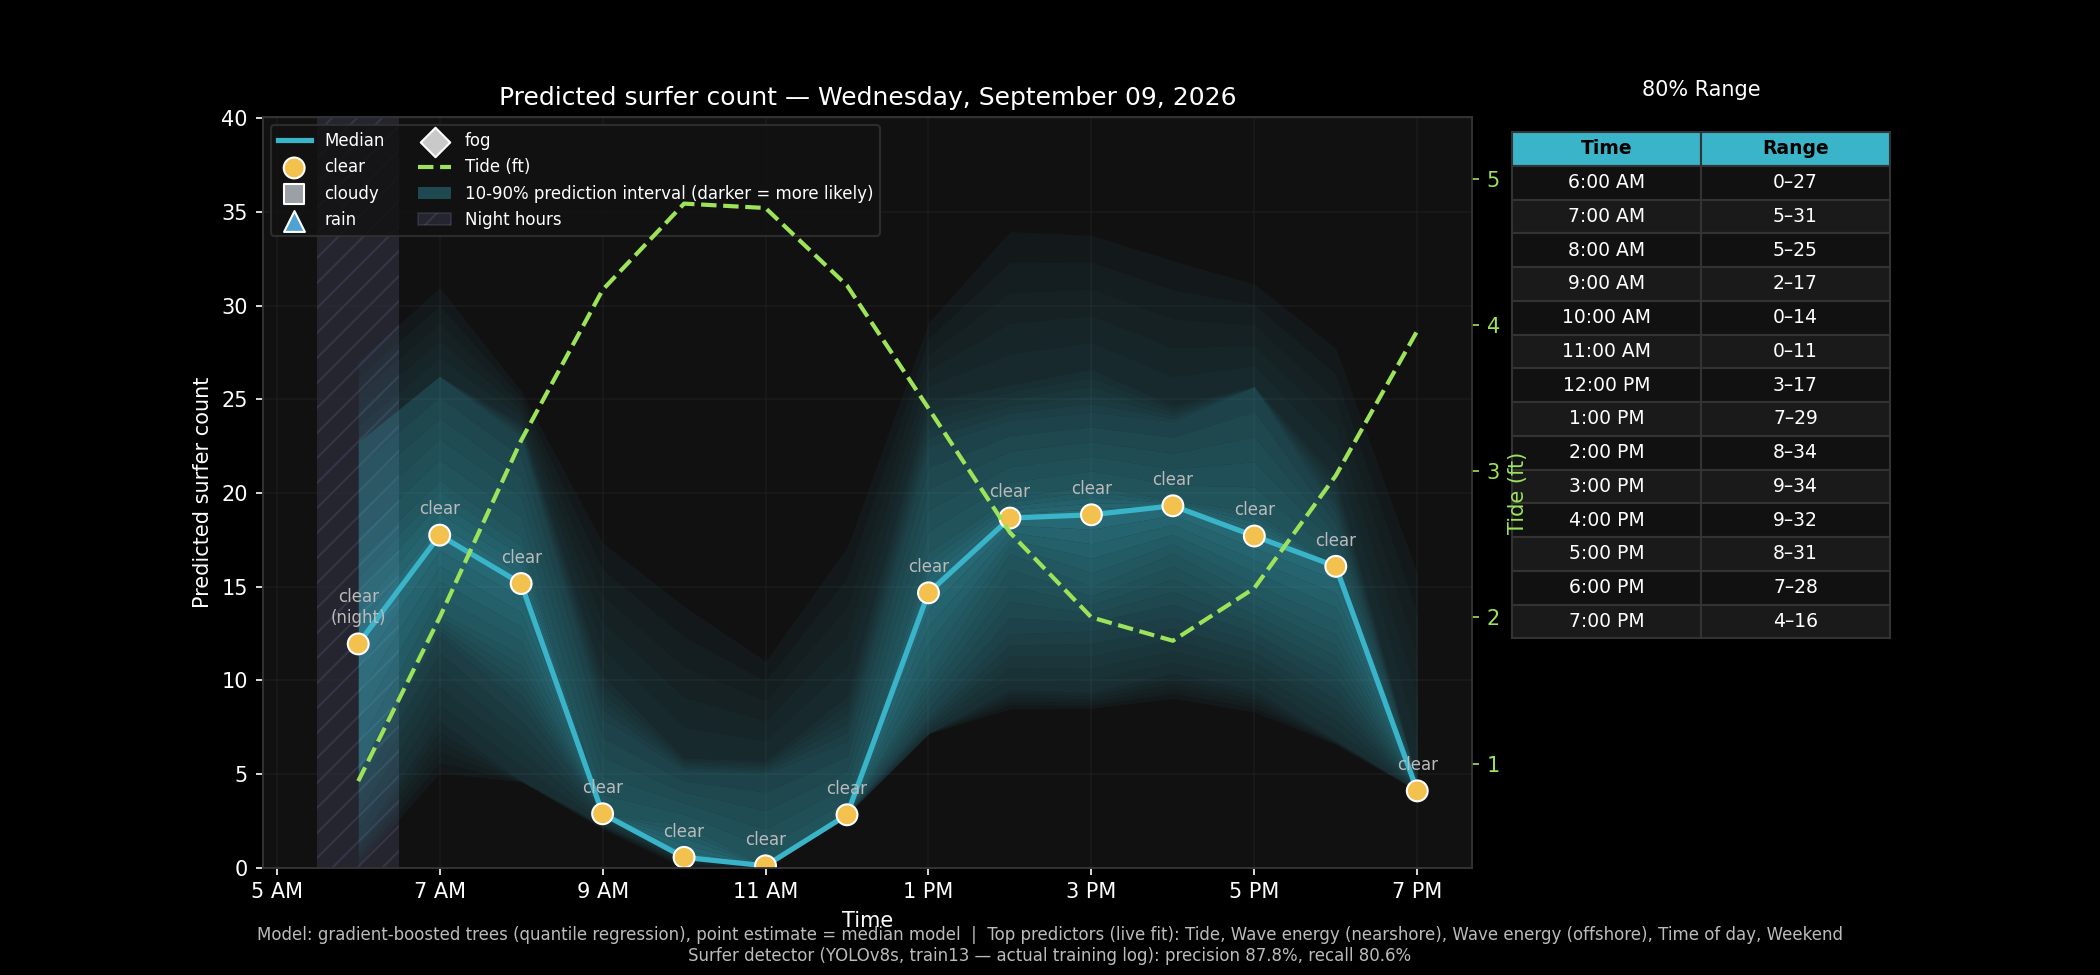
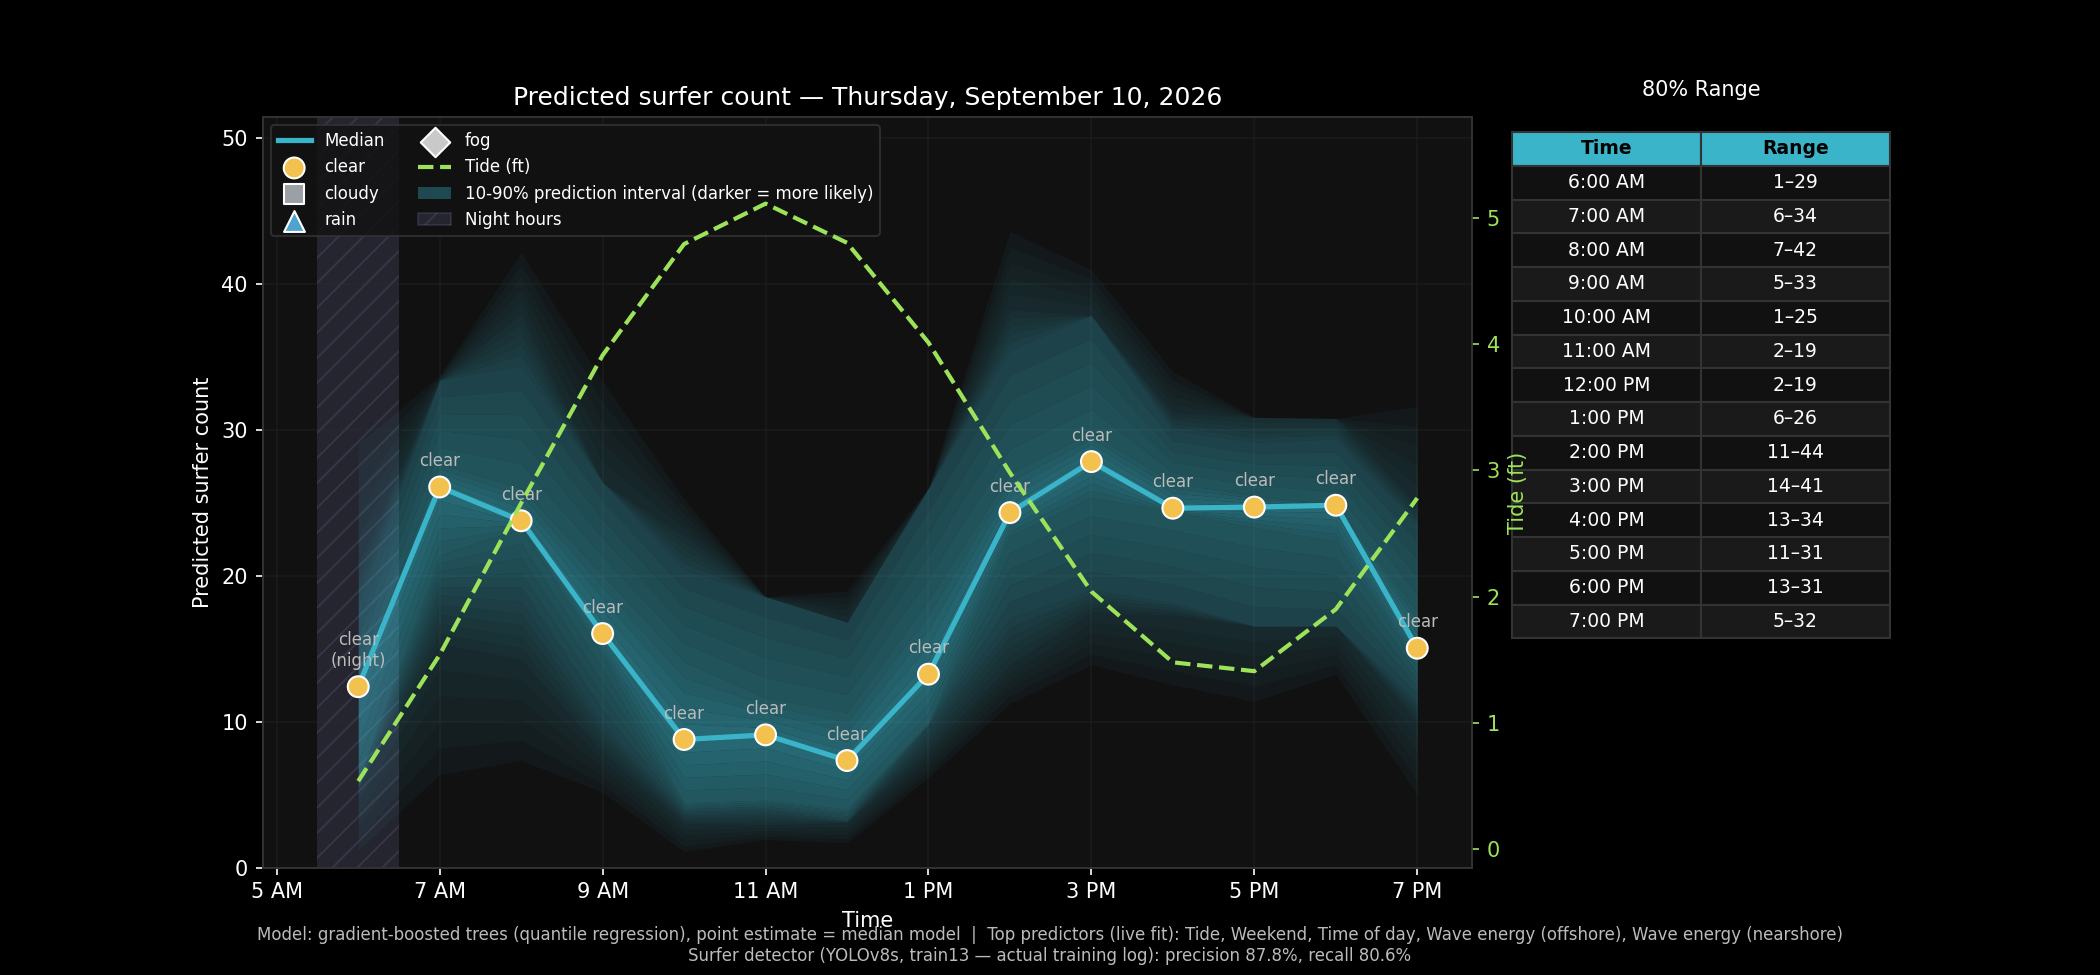
Automated: update daily surfer count chart (2026-09-09)

diff --git a/README.md b/README.md
@@ -76,12 +76,12 @@ tuned over time, and [PROJECT_FILES.md](docs/PROJECT_FILES.md) for a map
 of what every file in this repo does.
 
 <!-- DAILY_CHART_START -->
-#### A Recent Surfer Detection Count: Tuesday, September 08, 2026, 8:05 AM
+#### A Recent Surfer Detection Count: Wednesday, September 09, 2026, 8:05 AM
 
 Each green box below contains a surfer, according to the object detection model.  Each number above a box indicates the probability that the object is a surfer.  Look carefully and you may find additional surfers that the model missed or other objects which are misclassified as surfers - like the wind sock at the bottom center of the photo.
 ![Latest detection review](data/charts/latest_detection.png)
 
-#### The Surfer Crowd Forecast for: Wednesday, September 09, 2026
+#### The Surfer Crowd Forecast for: Thursday, September 10, 2026
 
 Once enough hours and days were gathered along with weather and surf conditions, a surf count prediction model was built to forecast how many surfers would be present at each hour for the coming day.  This is useful for surfers to plan to avoid busy times or at least know what to expect.  Recently the predictions have been low compared to actual counts, so more images are being collected to improve the object detection model's ability to find surfers in a variety of light and water conditions, like fog or choppy water surfaces.
 ![Latest daily prediction chart](data/charts/latest.png)
